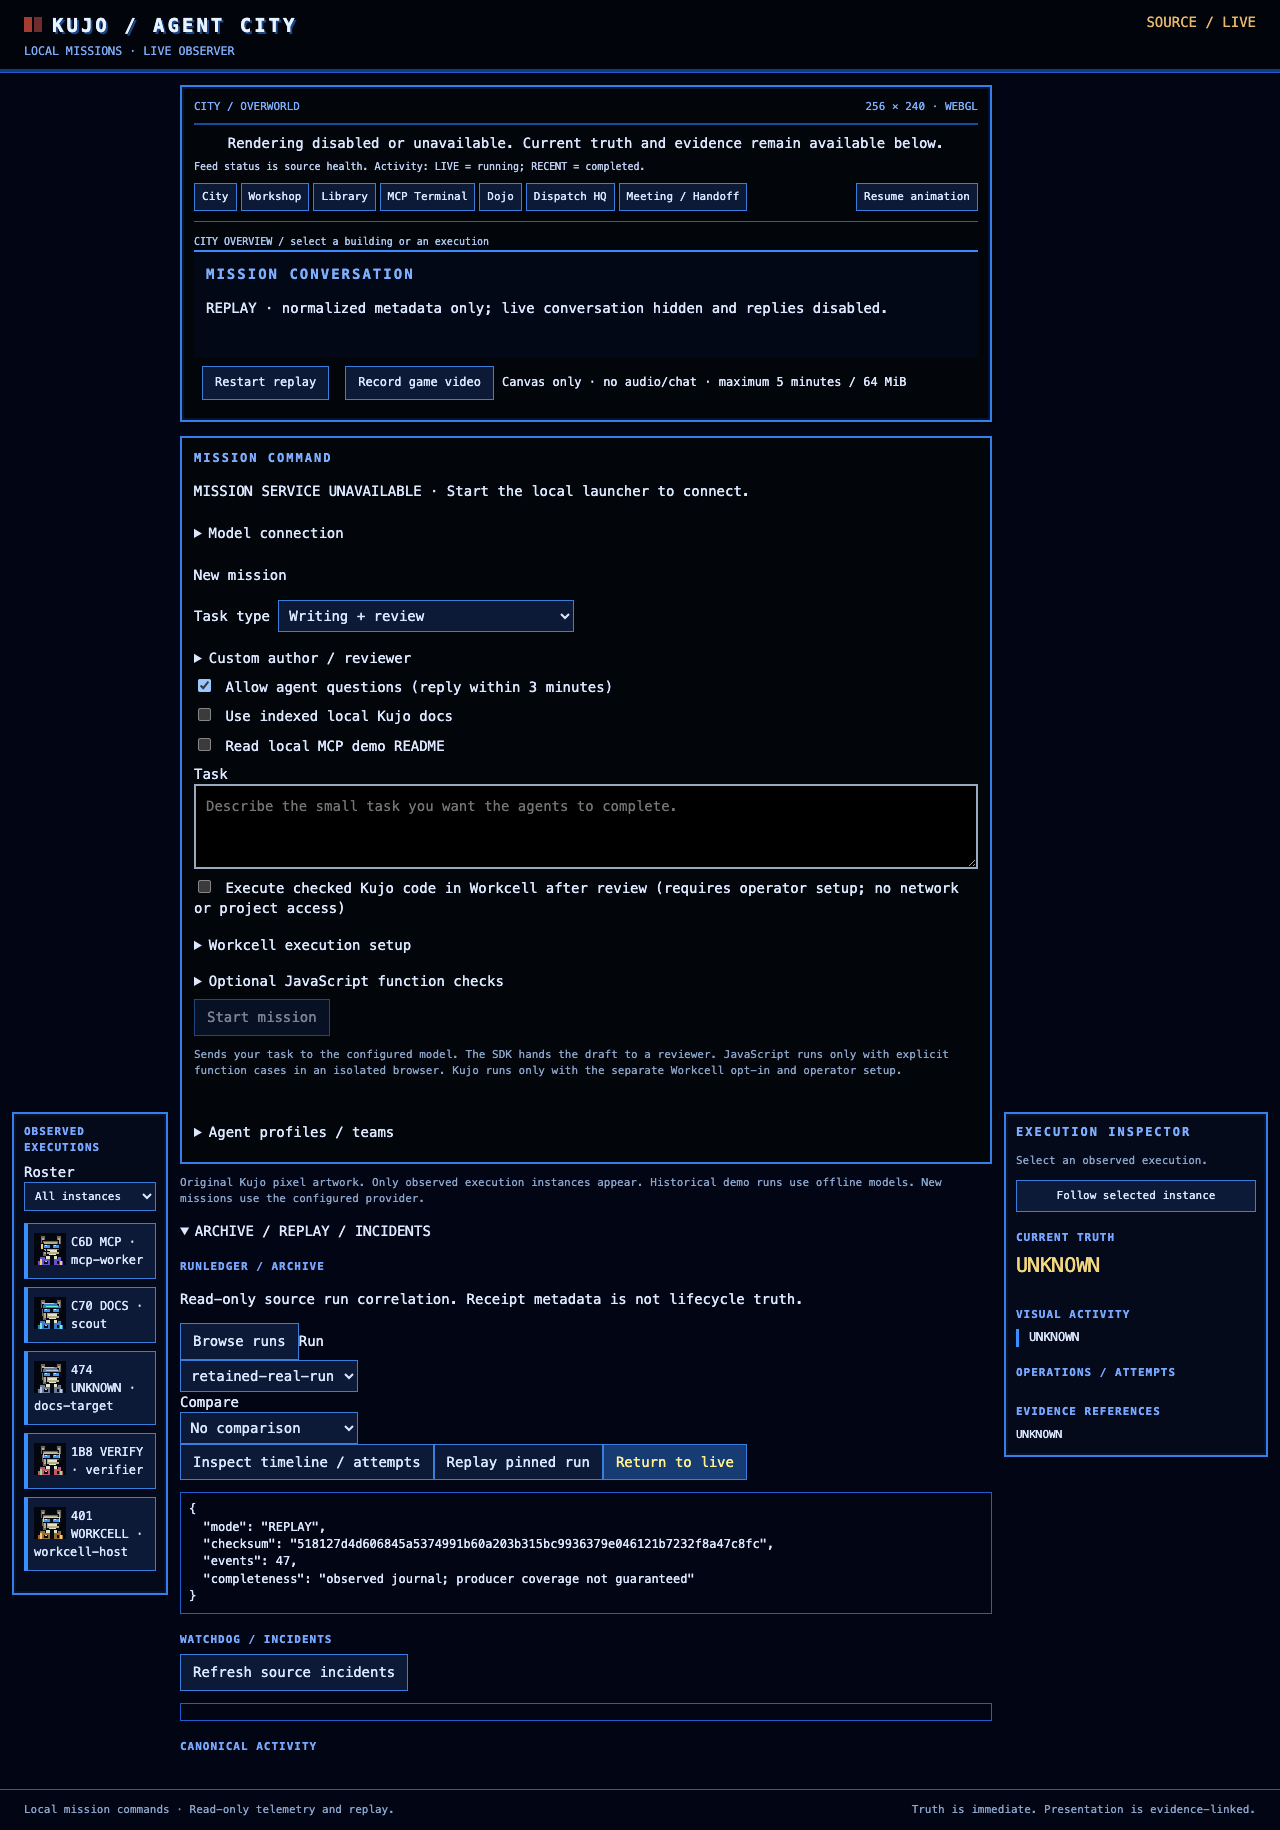
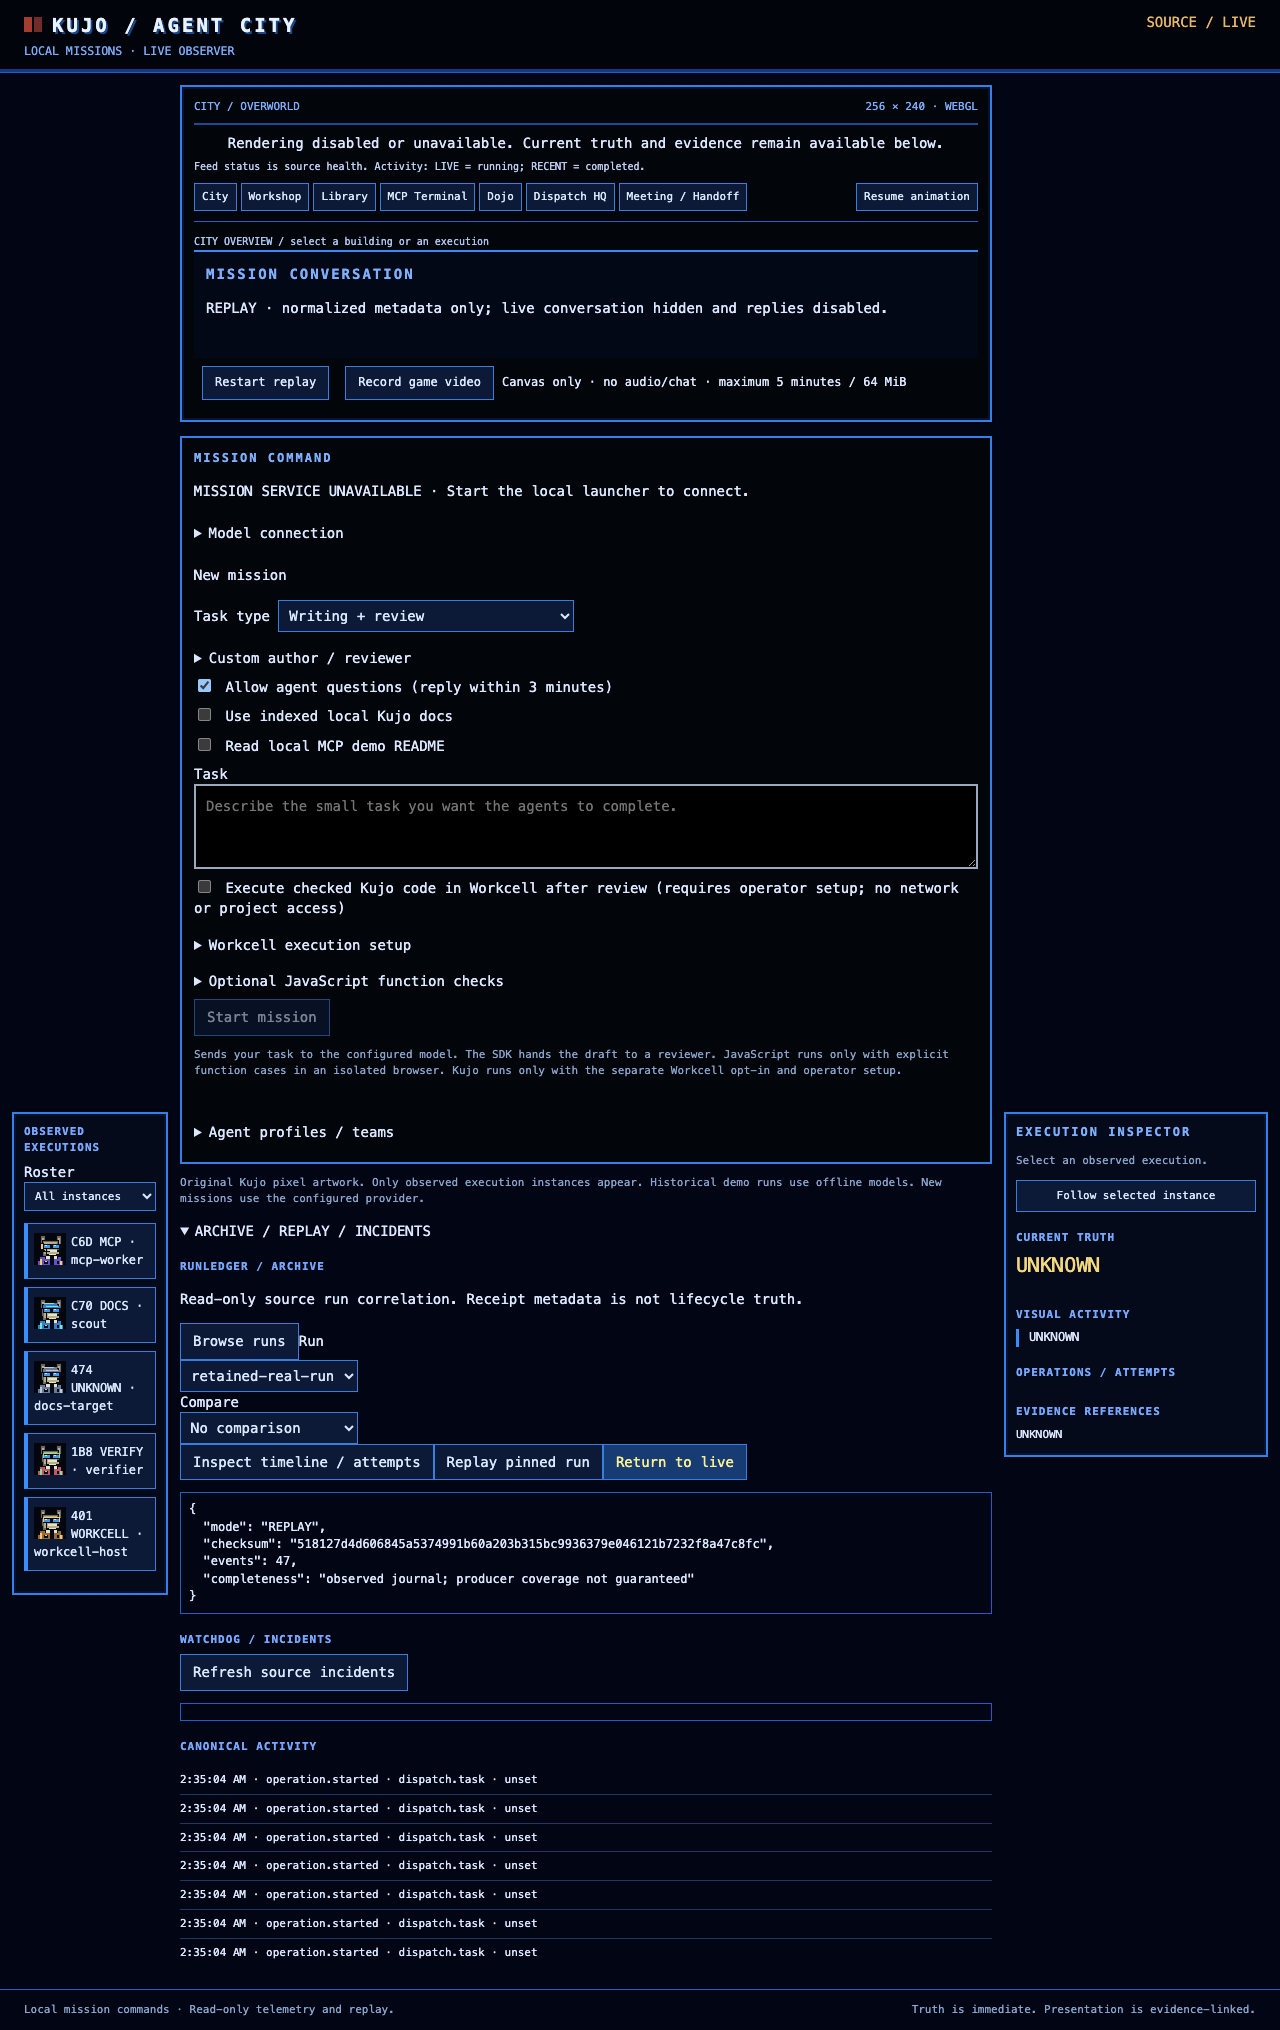
Coalesce telemetry DOM painting and retain stable roster nodes

diff --git a/apps/web/main.ts b/apps/web/main.ts
@@ -148,7 +148,17 @@ try {
   $("#canvas").textContent =
     "Rendering disabled or unavailable. Current truth and evidence remain available below.";
 }
+let pendingDOMFrame = 0;
+function scheduleDOM() {
+  if (pendingDOMFrame || document.hidden) return;
+  pendingDOMFrame = requestAnimationFrame(() => {
+    pendingDOMFrame = 0;
+    renderDOM();
+  });
+}
 function renderDOM() {
+  if (pendingDOMFrame) cancelAnimationFrame(pendingDOMFrame);
+  pendingDOMFrame = 0;
   $("#health").textContent =
     (replayMode ? "REPLAY" : "SOURCE / " + health) +
     (truth.gap ? " · PARTIAL COVERAGE" : "");
@@ -184,8 +194,20 @@ function renderDOM() {
         renderer.scene.toUpperCase() +
         " · inspect this building for station and source state"
       : "CITY OVERVIEW / select a building or an execution";
-  const nextRosterKey =
-    Object.keys(truth.agents).join("|") + selected + rosterFilter + truth.order;
+  const rosterAgents = Object.values(truth.agents).filter(
+    (a) =>
+      rosterFilter === "all" ||
+      (rosterFilter === "active" &&
+        Object.values(a.operations).some((o) => o.status === "active")) ||
+      (rosterFilter === "failed" &&
+        Object.values(a.operations).some((o) => o.status === "failed")) ||
+      (rosterFilter === "completed" && a.status === "completed"),
+  );
+  const nextRosterKey = JSON.stringify([
+    selected,
+    rosterFilter,
+    rosterAgents.map((a) => [a.id, a.profile]),
+  ]);
   if (nextRosterKey !== rosterKey) {
     rosterKey = nextRosterKey;
     const roster = $("#roster");
@@ -193,36 +215,26 @@ function renderDOM() {
       ? (document.activeElement as HTMLElement).dataset.instance
       : undefined;
     $("#roster").replaceChildren(
-      ...Object.values(truth.agents)
-        .filter(
-          (a) =>
-            rosterFilter === "all" ||
-            (rosterFilter === "active" &&
-              Object.values(a.operations).some((o) => o.status === "active")) ||
-            (rosterFilter === "failed" &&
-              Object.values(a.operations).some((o) => o.status === "failed")) ||
-            (rosterFilter === "completed" && a.status === "completed"),
-        )
-        .map((a, i) => {
-          const b = document.createElement("button");
-          const roles: Record<string, string> = {
-            "city-writer": "WRITER",
-            "city-coder": "CODER",
-            "city-reviewer": "REVIEWER",
-            "city-function-checker": "CHECKER",
-            "local-eval-invocation": "VERIFY",
-            "local-workcell-invocation": "WORKCELL",
-            "local-mcp-worker": "MCP",
-            "local-documentation-worker": "DOCS",
-          };
-          b.textContent = `${badge(a.id)} ${roles[a.profile] || (a.profile === "unknown" ? "UNKNOWN" : a.profile.split(":").at(-1))} · ${a.id.split(":").at(-1)}`;
-          b.prepend(portrait(a.profile));
-          b.setAttribute("aria-pressed", String(a.id === selected));
-          b.title = a.id;
-          b.dataset.instance = a.id;
-          b.onclick = () => choose(a.id);
-          return b;
-        }),
+      ...rosterAgents.map((a, i) => {
+        const b = document.createElement("button");
+        const roles: Record<string, string> = {
+          "city-writer": "WRITER",
+          "city-coder": "CODER",
+          "city-reviewer": "REVIEWER",
+          "city-function-checker": "CHECKER",
+          "local-eval-invocation": "VERIFY",
+          "local-workcell-invocation": "WORKCELL",
+          "local-mcp-worker": "MCP",
+          "local-documentation-worker": "DOCS",
+        };
+        b.textContent = `${badge(a.id)} ${roles[a.profile] || (a.profile === "unknown" ? "UNKNOWN" : a.profile.split(":").at(-1))} · ${a.id.split(":").at(-1)}`;
+        b.prepend(portrait(a.profile));
+        b.setAttribute("aria-pressed", String(a.id === selected));
+        b.title = a.id;
+        b.dataset.instance = a.id;
+        b.onclick = () => choose(a.id);
+        return b;
+      }),
     );
     if (focusedInstance) {
       const replacement = Array.from(roster.querySelectorAll("button")).find(
@@ -494,7 +506,7 @@ async function connect() {
         choose(e.instance, true);
         missionToFollow = null;
       }
-      if (!document.hidden) renderDOM();
+      if (!document.hidden) scheduleDOM();
     } catch {
       health = "UNKNOWN";
       stream?.close();

diff --git a/scripts/browser-connection-proof.ts b/scripts/browser-connection-proof.ts
@@ -231,6 +231,43 @@ try {
     "Expected the held request to reach its cancellation deadline",
   );
   for (const route of held.splice(0)) await route.abort().catch(() => {});
+  // A metadata burst updates truth synchronously, but paints once per frame.
+  const burst = await page.evaluate(
+    (template) => {
+      const source = (window as any).proofSources.at(-1);
+      const start = (window as any).agentCity.truth.order;
+      const rosterButton = document.querySelector("#roster button");
+      const observer = new MutationObserver(() => {});
+      observer.observe(document.querySelector("#log")!, { childList: true });
+      for (let i = 1; i <= 100; i++) {
+        source.dispatchEvent(
+          new MessageEvent("world", {
+            data: JSON.stringify({
+              ...template,
+              eventId: `transport-burst-${i}`,
+              order: start + i,
+            }),
+          }),
+        );
+      }
+      const synchronousPaints = observer.takeRecords().length;
+      observer.disconnect();
+      return {
+        order: (window as any).agentCity.truth.order,
+        expected: start + 100,
+        synchronousPaints,
+        rosterRetained:
+          rosterButton === document.querySelector("#roster button"),
+      };
+    },
+    bundle.events.find((e: any) => e.type === "operation.started"),
+  );
+  assert.equal(burst.order, burst.expected);
+  assert.equal(burst.synchronousPaints, 0);
+  assert.equal(burst.rosterRetained, true);
+  await page.waitForFunction(
+    () => document.querySelectorAll("#log li").length === 20,
+  );
   assert.deepEqual(errors, []);
   assert.deepEqual(writes, []);
   await page.screenshot({ path: out + "/recovered.png", fullPage: true });
@@ -240,6 +277,7 @@ try {
       {
         kind: "Controlled browser transport regression using retained real replay data; no new source execution",
         browser: browser.version(),
+        burst,
         originalChecksum,
         controlledBundleChecksum: bundle.checksum,
         controlledBundleMapHash: bundle.versions.mapHash,

diff --git a/evidence/browser-connection/README.md b/evidence/browser-connection/README.md
@@ -31,3 +31,11 @@ CI37710144786's prior reconnect-under-load failure is retained privately in
 .runtime/ci-reconnect-37710144786; both platforms exceeded the STALE deadline,
 and x64 also encountered an intake timeout. These local checks do not supersede
 that separate load qualification failure.
+
+The next load run37711102809 still failed: synchronous per-event UI rebuilds
+coincided with heavy DOM allocation (x64 CDP Nodes164,044 by30seconds). UI painting
+now coalesces on animation frames and the roster retains unchanged profile/instance
+buttons. Every event still reduces truth and plans semantic activity synchronously.
+A100-event controlled browser burst proves immediate truth, zero synchronous log
+rebuilds, retained roster nodes and eventual visible timeline. This optimizes
+presentation only and does not claim the load/reconnect gate has passed.
